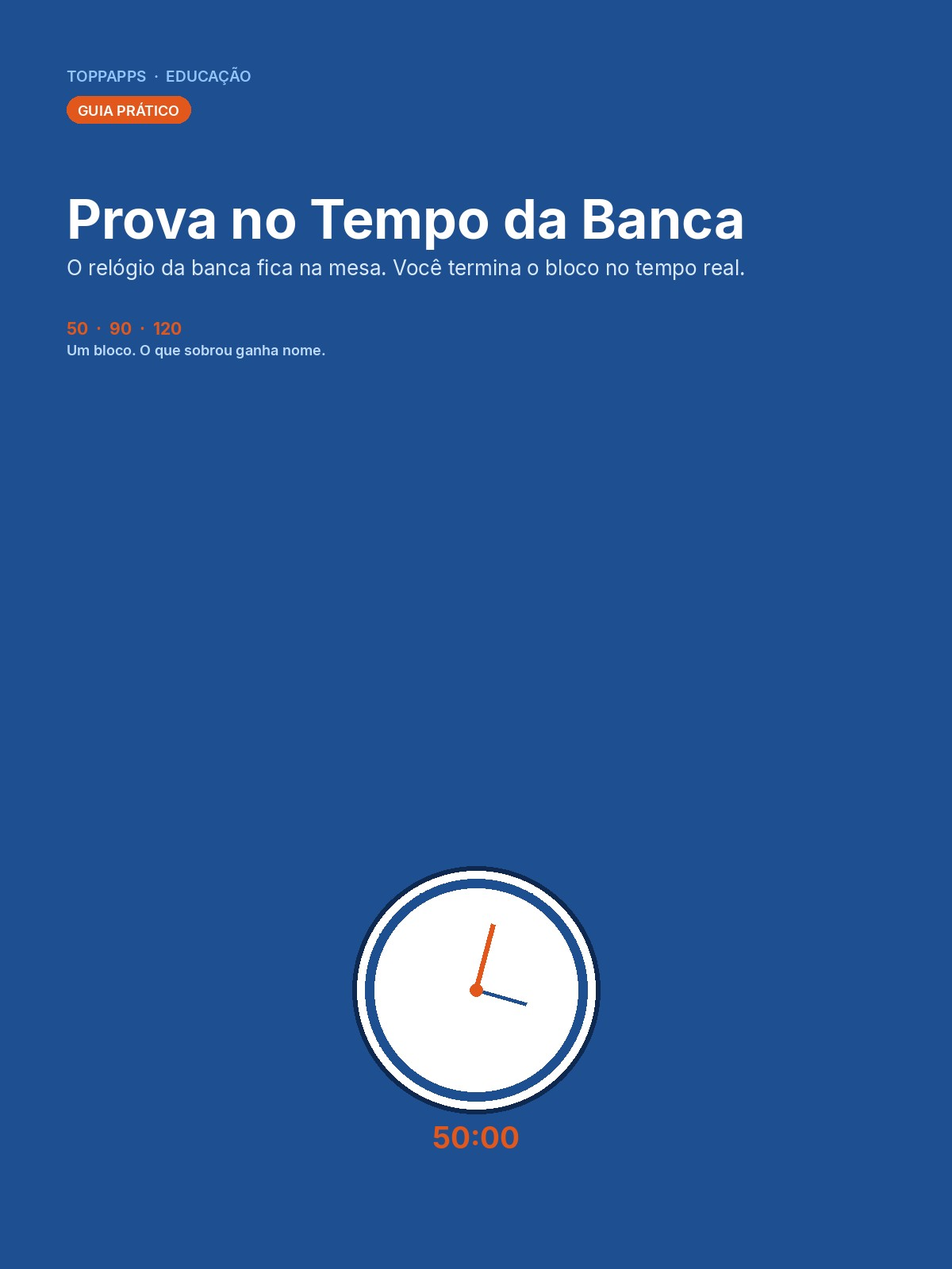
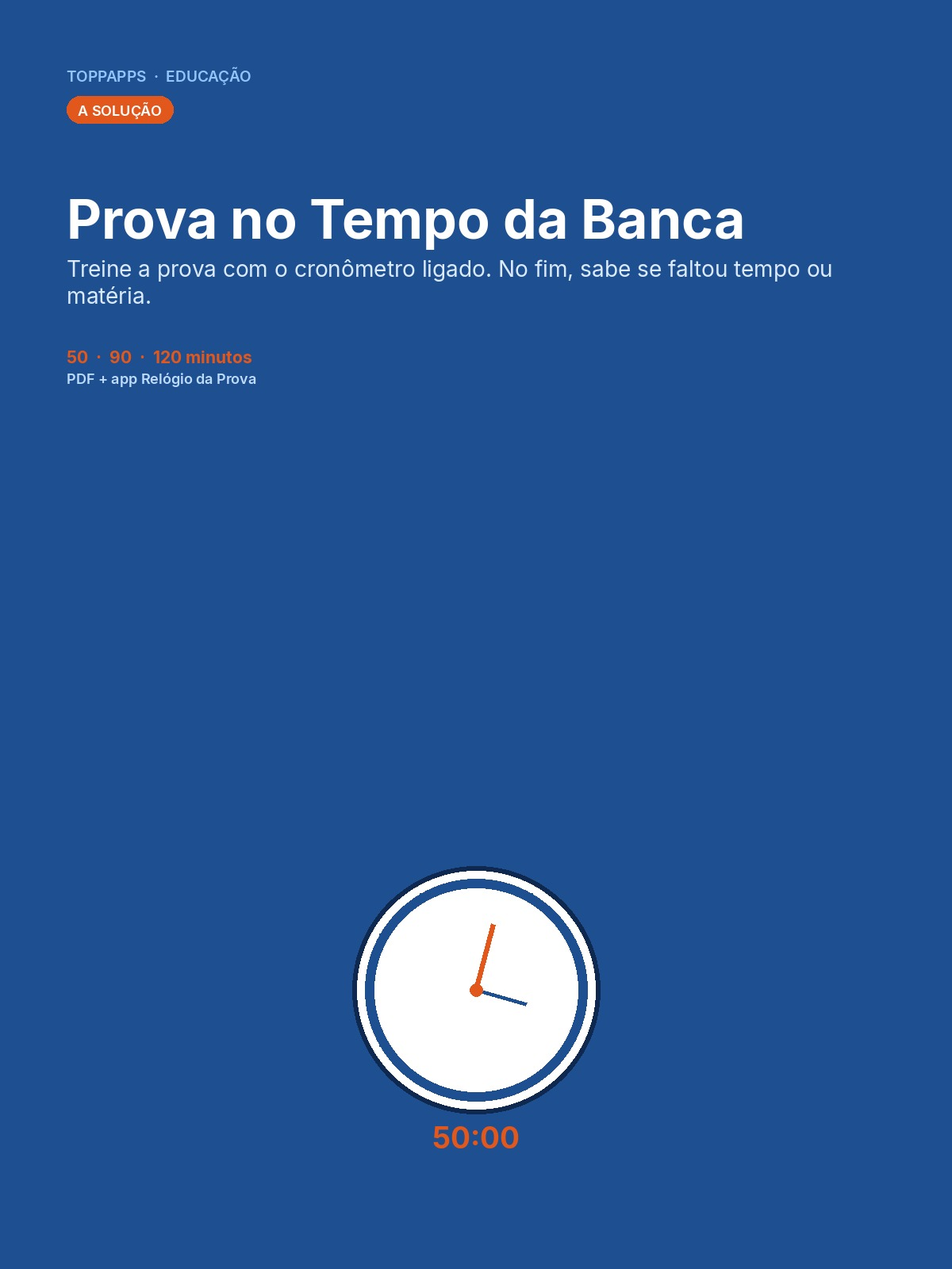
Clarifica a solução de Prova no Tempo da Banca.
Capa e copy passam a dizer, em português simples, que o produto treina a prova com o cronômetro ligado e no fim mostra se faltou tempo ou matéria.

Changed region(s): [[0.0617, 0.1875, 0.8633, 0.3125], [0.0925, 0.0625, 0.2158, 0.0938]]

diff --git a/public/hub-runtime.js b/public/hub-runtime.js
@@ -1,4 +1,4 @@
-    const CATEGORY = {"key":"educacao","short":"EDUCAÇÃO","label":"Estudos, concursos, ENEM e faculdade","host":"edu.toppapps.online","title":"Soluções para estudar com mais direção e menos improviso.","description":"Guias e ferramentas para organizar a semana, começar o estudo e revisar com critérios que cabem na rotina.","accent":"#5b4b8a","accent_soft":"#f2eff4","deep":"#1a1a22","hero_asset":"https://raw.githubusercontent.com/toppaplicativos/educacao-hub/main/public/product/hero-study.webp","hero_alt":"Ilustração editorial de educação com caderno, relógio e cartões de revisão","slides":[{"title":"Um plano possível vence a semana perfeita.","copy":"Escolha uma solução que respeite seu tempo, suas prioridades e os imprevistos.","image":"https://raw.githubusercontent.com/toppaplicativos/educacao-hub/main/public/product/hero-study.webp","alt":"Destaque editorial 1 de EDUCAÇÃO"},{"title":"Começar também é uma habilidade.","copy":"Reduza a fricção do primeiro bloco e transforme intenção em uma sessão real.","image":"https://raw.githubusercontent.com/toppaplicativos/educacao-hub/main/public/product/session-ready.webp","alt":"Destaque editorial 2 de EDUCAÇÃO"},{"title":"Revisar é voltar com critério.","copy":"Organize o retorno ao conteúdo para não depender de releituras aleatórias.","image":"https://raw.githubusercontent.com/toppaplicativos/educacao-hub/main/public/product/pain-desk.webp","alt":"Destaque editorial 3 de EDUCAÇÃO"}],"collections":[["planejamento","Planejar a semana","Para transformar matérias, prazos e tempo em um plano executável."],["inicio","Começar a estudar","Para reduzir a fricção e construir o primeiro bloco de estudo."],["revisao","Revisar melhor","Para voltar ao conteúdo com intervalos e perguntas mais claras."]],"products":[{"slug": "prova-no-tempo-da-banca", "title": "Prova no Tempo da Banca", "subtitle": "Um bloco no relógio da prova", "description": "Em 50 minutos você faz um bloco da prova. No fim, sabe se faltou tempo ou matéria. Guia em PDF + app Relógio da Prova.", "objective": "Treinar o tempo", "theme": "Simulado no relógio", "audience": "Quem trava na prova mesmo sabendo a matéria", "format": "Guia digital + app", "delivery": "Entrega digital", "price": 27.9, "status": "live", "priority": 0, "collection": "inicio", "tags": ["prova", "tempo", "simulado", "concurso", "ENEM"], "featured": true, "cover": "https://cdn.jsdelivr.net/gh/toppaplicativos/educacao-hub@e95487171be0f0a7d17ed45a0671f8e53c5980e9/public/product/prova/cover.webp", "checkout": "https://pay.kiwify.com.br/ziYRYmK"},{"slug": "aprenda-fazendo-questoes", "title": "Aprenda Fazendo Questões", "subtitle": "Uma questão. O motivo. Outra do mesmo tipo.", "description": "Em 8 minutos você marca por que errou. A próxima questão é desse tipo. Guia em PDF + app Próxima Questão.", "objective": "Fazer questões", "theme": "Questões com método", "audience": "Quem faz muita questão e continua errando a mesma coisa", "format": "Guia digital + app", "delivery": "Entrega digital", "price": 27.9, "status": "live", "priority": 0, "collection": "inicio", "tags": ["questões", "erro", "gabarito", "concurso", "ENEM"], "featured": true, "cover": "https://cdn.jsdelivr.net/gh/toppaplicativos/educacao-hub@c4d8f7599aeec363a22cb71acd987a7e0b396e07/public/product/questoes/cover.webp", "checkout": "https://pay.kiwify.com.br/VZpz5C9"},{"slug":"nunca-mais-esqueca-tudo","title":"Nunca Mais Esqueça Tudo","subtitle":"Fila do que vence hoje","description":"Em 5 minutos, só o que vence hoje está na mesa. O semestre fica fora. Guia em PDF + app Fila de Hoje.","objective":"Revisar melhor","theme":"Fila de revisão","audience":"Quem acumula matéria e não sabe o que revisar","format":"Guia digital + app","delivery":"Entrega digital","price":27.9,"status":"live","priority":0,"collection":"revisao","tags":["esquecer","fila","revisão","cartão","manhã"],"featured":true,"cover":"https://cdn.jsdelivr.net/gh/toppaplicativos/educacao-hub@2862ff7b082e60218f94b15dde795712053537fd/public/product/esqueca/cover.webp","checkout":"https://pay.kiwify.com.br/csMSLPJ"},{"slug":"estude-uma-vez-revise-certo","title":"Estude Uma Vez, Revise Certo","subtitle":"Revisão que cobra, não que relê","description":"Feche o caderno — e a matéria volta sem reler o capítulo. Guia em PDF + app Próxima Revisão.","objective":"Revisar melhor","theme":"Revisão espaçada","audience":"Quem estuda e esquece na semana seguinte","format":"Guia digital + app","delivery":"Entrega digital","price":37.9,"status":"live","priority":0,"collection":"revisao","tags":["revisão","esquecer","pergunta","intervalo","1-3-7"],"featured":true,"cover":"https://cdn.jsdelivr.net/gh/toppaplicativos/educacao-hub@04de7fcc0793cd91af062c0a13ae811ccd818973/public/product/revisao/cover.webp","checkout":"https://pay.kiwify.com.br/jY4maqm"},{"slug":"cronograma-que-funciona","title":"Cronograma que Funciona","subtitle":"Plano de estudos possível","description":"Monte uma semana de estudos que respeita sua rotina, suas prioridades e os imprevistos do caminho.","objective":"Planejamento","theme":"Organização e produtividade","audience":"Estudantes, concurseiros e universitários","format":"Guia digital + aplicação","delivery":"Entrega digital","price":27.9,"status":"live","priority":1,"collection":"planejamento","tags":["cronograma","semana","estudos","planejamento","rotina"],"featured":true,"cover":"https://raw.githubusercontent.com/toppaplicativos/educacao-hub/main/public/assets/covers/cronograma-que-funciona.webp","checkout":"https://pay.kiwify.com.br/aMALUaX"},{"slug":"senta-e-estuda","title":"Senta e Estuda","subtitle":"Primeira sessão em 10 minutos","description":"Em 10 minutos você senta e começa — sem esperar vontade. Guia em PDF + app Primeira Sessão.","objective":"Começar a estudar","theme":"Início e foco","audience":"Quem adia o começo do estudo","format":"Guia digital + app","delivery":"Entrega digital","price":27.9,"status":"live","priority":2,"collection":"inicio","tags":["começar","foco","primeira sessão","estudar"],"featured":true,"cover":"https://raw.githubusercontent.com/toppaplicativos/educacao-hub/main/public/product/cover-navy.webp","checkout":"https://pay.kiwify.com.br/EDp7t2z"}],"faqs":[["A solução substitui uma escola ou professor?","Não. São materiais de organização e aplicação para apoiar sua rotina de estudos."],["O cronograma funciona para qualquer pessoa?","O material oferece critérios para adaptar a semana. A execução depende do tempo, objetivo e contexto de cada pessoa."],["Como uma oferta planejada aparece?","Ela fica no catálogo com estado de preparação e sem preço ou CTA de compra até que publicação, suporte e QA estejam confirmados."]]};
+    const CATEGORY = {"key":"educacao","short":"EDUCAÇÃO","label":"Estudos, concursos, ENEM e faculdade","host":"edu.toppapps.online","title":"Soluções para estudar com mais direção e menos improviso.","description":"Guias e ferramentas para organizar a semana, começar o estudo e revisar com critérios que cabem na rotina.","accent":"#5b4b8a","accent_soft":"#f2eff4","deep":"#1a1a22","hero_asset":"https://raw.githubusercontent.com/toppaplicativos/educacao-hub/main/public/product/hero-study.webp","hero_alt":"Ilustração editorial de educação com caderno, relógio e cartões de revisão","slides":[{"title":"Um plano possível vence a semana perfeita.","copy":"Escolha uma solução que respeite seu tempo, suas prioridades e os imprevistos.","image":"https://raw.githubusercontent.com/toppaplicativos/educacao-hub/main/public/product/hero-study.webp","alt":"Destaque editorial 1 de EDUCAÇÃO"},{"title":"Começar também é uma habilidade.","copy":"Reduza a fricção do primeiro bloco e transforme intenção em uma sessão real.","image":"https://raw.githubusercontent.com/toppaplicativos/educacao-hub/main/public/product/session-ready.webp","alt":"Destaque editorial 2 de EDUCAÇÃO"},{"title":"Revisar é voltar com critério.","copy":"Organize o retorno ao conteúdo para não depender de releituras aleatórias.","image":"https://raw.githubusercontent.com/toppaplicativos/educacao-hub/main/public/product/pain-desk.webp","alt":"Destaque editorial 3 de EDUCAÇÃO"}],"collections":[["planejamento","Planejar a semana","Para transformar matérias, prazos e tempo em um plano executável."],["inicio","Começar a estudar","Para reduzir a fricção e construir o primeiro bloco de estudo."],["revisao","Revisar melhor","Para voltar ao conteúdo com intervalos e perguntas mais claras."]],"products":[{"slug": "prova-no-tempo-da-banca", "title": "Prova no Tempo da Banca", "subtitle": "Treine a prova com o cronômetro ligado", "description": "A solução: treinar com o cronômetro da prova ligado. No fim, sabe se faltou tempo ou matéria. Guia em PDF + app Relógio da Prova.", "objective": "Treinar o tempo", "theme": "Simulado no relógio", "audience": "Quem trava na prova mesmo sabendo a matéria", "format": "Guia digital + app", "delivery": "Entrega digital", "price": 27.9, "status": "live", "priority": 0, "collection": "inicio", "tags": ["prova", "tempo", "simulado", "concurso", "ENEM"], "featured": true, "cover": "https://cdn.jsdelivr.net/gh/toppaplicativos/educacao-hub@e95487171be0f0a7d17ed45a0671f8e53c5980e9/public/product/prova/cover.webp", "checkout": "https://pay.kiwify.com.br/ziYRYmK"},{"slug": "aprenda-fazendo-questoes", "title": "Aprenda Fazendo Questões", "subtitle": "Uma questão. O motivo. Outra do mesmo tipo.", "description": "Em 8 minutos você marca por que errou. A próxima questão é desse tipo. Guia em PDF + app Próxima Questão.", "objective": "Fazer questões", "theme": "Questões com método", "audience": "Quem faz muita questão e continua errando a mesma coisa", "format": "Guia digital + app", "delivery": "Entrega digital", "price": 27.9, "status": "live", "priority": 0, "collection": "inicio", "tags": ["questões", "erro", "gabarito", "concurso", "ENEM"], "featured": true, "cover": "https://cdn.jsdelivr.net/gh/toppaplicativos/educacao-hub@c4d8f7599aeec363a22cb71acd987a7e0b396e07/public/product/questoes/cover.webp", "checkout": "https://pay.kiwify.com.br/VZpz5C9"},{"slug":"nunca-mais-esqueca-tudo","title":"Nunca Mais Esqueça Tudo","subtitle":"Fila do que vence hoje","description":"Em 5 minutos, só o que vence hoje está na mesa. O semestre fica fora. Guia em PDF + app Fila de Hoje.","objective":"Revisar melhor","theme":"Fila de revisão","audience":"Quem acumula matéria e não sabe o que revisar","format":"Guia digital + app","delivery":"Entrega digital","price":27.9,"status":"live","priority":0,"collection":"revisao","tags":["esquecer","fila","revisão","cartão","manhã"],"featured":true,"cover":"https://cdn.jsdelivr.net/gh/toppaplicativos/educacao-hub@2862ff7b082e60218f94b15dde795712053537fd/public/product/esqueca/cover.webp","checkout":"https://pay.kiwify.com.br/csMSLPJ"},{"slug":"estude-uma-vez-revise-certo","title":"Estude Uma Vez, Revise Certo","subtitle":"Revisão que cobra, não que relê","description":"Feche o caderno — e a matéria volta sem reler o capítulo. Guia em PDF + app Próxima Revisão.","objective":"Revisar melhor","theme":"Revisão espaçada","audience":"Quem estuda e esquece na semana seguinte","format":"Guia digital + app","delivery":"Entrega digital","price":37.9,"status":"live","priority":0,"collection":"revisao","tags":["revisão","esquecer","pergunta","intervalo","1-3-7"],"featured":true,"cover":"https://cdn.jsdelivr.net/gh/toppaplicativos/educacao-hub@04de7fcc0793cd91af062c0a13ae811ccd818973/public/product/revisao/cover.webp","checkout":"https://pay.kiwify.com.br/jY4maqm"},{"slug":"cronograma-que-funciona","title":"Cronograma que Funciona","subtitle":"Plano de estudos possível","description":"Monte uma semana de estudos que respeita sua rotina, suas prioridades e os imprevistos do caminho.","objective":"Planejamento","theme":"Organização e produtividade","audience":"Estudantes, concurseiros e universitários","format":"Guia digital + aplicação","delivery":"Entrega digital","price":27.9,"status":"live","priority":1,"collection":"planejamento","tags":["cronograma","semana","estudos","planejamento","rotina"],"featured":true,"cover":"https://raw.githubusercontent.com/toppaplicativos/educacao-hub/main/public/assets/covers/cronograma-que-funciona.webp","checkout":"https://pay.kiwify.com.br/aMALUaX"},{"slug":"senta-e-estuda","title":"Senta e Estuda","subtitle":"Primeira sessão em 10 minutos","description":"Em 10 minutos você senta e começa — sem esperar vontade. Guia em PDF + app Primeira Sessão.","objective":"Começar a estudar","theme":"Início e foco","audience":"Quem adia o começo do estudo","format":"Guia digital + app","delivery":"Entrega digital","price":27.9,"status":"live","priority":2,"collection":"inicio","tags":["começar","foco","primeira sessão","estudar"],"featured":true,"cover":"https://raw.githubusercontent.com/toppaplicativos/educacao-hub/main/public/product/cover-navy.webp","checkout":"https://pay.kiwify.com.br/EDp7t2z"}],"faqs":[["A solução substitui uma escola ou professor?","Não. São materiais de organização e aplicação para apoiar sua rotina de estudos."],["O cronograma funciona para qualquer pessoa?","O material oferece critérios para adaptar a semana. A execução depende do tempo, objetivo e contexto de cada pessoa."],["Como uma oferta planejada aparece?","Ela fica no catálogo com estado de preparação e sem preço ou CTA de compra até que publicação, suporte e QA estejam confirmados."]]};
     const SUPPORT_EMAIL = 'suporte@toppapps.online';
     const QUESTOES_ASSETS = 'https://cdn.jsdelivr.net/gh/toppaplicativos/educacao-hub@c4d8f7599aeec363a22cb71acd987a7e0b396e07/public/product/questoes';
     const PROVA_ASSETS = 'https://cdn.jsdelivr.net/gh/toppaplicativos/educacao-hub@e95487171be0f0a7d17ed45a0671f8e53c5980e9/public/product/prova';
@@ -1135,11 +1135,11 @@
         <section class="hero"><div class="wrap senta-grid senta-hero">
           <div class="hero-copy">
             <p class="eyebrow">VOCÊ ESTUDA SEM RELÓGIO. A PROVA COBRA O TEMPO.</p>
-            <h1>Em 50 minutos você faz um bloco da prova. No fim, sabe se faltou tempo ou matéria.</h1>
+            <h1>Em 50 minutos você treina a prova com o cronômetro ligado.</h1>
             <div class="hero-actions">${cta('Quero treinar no tempo da prova')}<a class="button secondary" href="${pay}" rel="noopener">Ver o app em 3 funções</a></div>
             <p class="hero-note">Acesso na hora. 7 dias para desistir.</p>
-            <p class="hero-lede">Você estuda 3 horas. Na prova o fiscal avisa 15 minutos e você ainda está na questão 32. A matéria você sabia. O relógio não estava na mesa. Pare. Ponha 50, 90 ou 120 minutos. Faça um bloco sem pausar. No fim, marque: acabou o tempo, não sabia, ou deu tempo.</p>
-            <div class="senta-proof"><span>Um bloco no relógio</span><span>R$ 27,90</span><span>PDF 14 páginas + app</span><span>Garantia 7 dias</span></div>
+            <p class="senta-effect" style="margin:1rem 0 .6rem">A solução: um app liga o cronômetro da prova (50, 90 ou 120 minutos). Você responde as questões sem pausar. No fim anota se faltou tempo ou se não sabia a matéria. O guia em PDF ensina o método.</p><p class="hero-lede">Você estuda horas em casa e pausa quando quer. No dia da prova o fiscal corta o tempo e você ainda está no meio das questões. A matéria você sabia. Você nunca treinou com o cronômetro da prova ligado.</p>
+            <div class="senta-proof"><span>Treino no tempo da prova</span><span>R$ 27,90</span><span>PDF 14 páginas + app</span><span>Garantia 7 dias</span></div>
             <blockquote class="senta-quote" style="margin-top:1.2rem;overflow:auto">
               <img src="${A}/faces/renata.jpg" alt="Renata M." width="88" height="88">
               <p>“Eu fazia simulado de 4 horas e pausava para olhar o caderno. Na prova o tempo acabava. Coloquei 50 minutos. Um bloco. Vi que eu demorava nas primeiras 10.”</p>
@@ -1164,41 +1164,41 @@
         </div></section>
 
         <section class="section" id="virada"><div class="wrap">
-          <p class="eyebrow">A VIRADA</p>
-          <h2>Um bloco no relógio da prova ensina mais do que 3 horas sem hora.</h2>
-          <p class="copy">Não é falta de matéria. É treinar sem o tempo que a prova cobra. Ponha 50, 90 ou 120 minutos. Faça o bloco. Marque o que aconteceu.</p>
-          <p class="senta-effect">Relógio na mesa. Um bloco. No fim você marca: acabou o tempo, não sabia, ou deu tempo.</p>
+          <p class="eyebrow">A SOLUÇÃO</p>
+          <h2>A solução é treinar com o cronômetro da prova ligado.</h2>
+          <p class="copy">Não é falta de matéria. É treinar sem o tempo que a prova cobra. Você escolhe 50, 90 ou 120 minutos, responde as questões sem pausar e anota o que aconteceu.</p>
+          <p class="senta-effect">Cronômetro na frente. Questões sem pausa. No fim você anota: faltou tempo, não sabia, ou deu tempo.</p>
           <div class="senta-steps" style="margin-top:1.4rem">
-            <article class="senta-step"><h3>Ponha o tempo da prova</h3><p>50, 90 ou 120 minutos. O mesmo da sua banca. Não um treino de 12 minutos.</p></article>
-            <article class="senta-step"><h3>Faça um bloco</h3><p>Sem pausa. Sem caderno. Sem olhar o celular.</p></article>
-            <article class="senta-step"><h3>Marque o que aconteceu</h3><p>Acabou o tempo. Não sabia. Deu tempo. Aí o próximo bloco muda.</p></article>
+            <article class="senta-step"><h3>Ligue o cronômetro da prova</h3><p>50, 90 ou 120 minutos. O mesmo tempo da sua banca. Não um treino de 12 minutos.</p></article>
+            <article class="senta-step"><h3>Responda as questões sem pausar</h3><p>Sem caderno. Sem celular. O fiscal não espera você voltar.</p></article>
+            <article class="senta-step"><h3>Anote o que aconteceu</h3><p>Faltou tempo. Não sabia a matéria. Deu tempo. Aí o próximo treino muda.</p></article>
           </div>
         </div></section>
 
         <section class="section"><div class="wrap">
           <p class="eyebrow">MÉTODO</p>
-          <h2>Três passos. Um bloco. O tempo da prova fica visível.</h2>
-          <p class="copy">O PDF mostra o método. O app Relógio da Prova aplica. Você escolhe a duração. Faz o bloco. Marca o que aconteceu.</p>
+          <h2>Três passos. O cronômetro da prova fica na sua frente.</h2>
+          <p class="copy">O PDF ensina o método. O app Relógio da Prova aplica. Você escolhe a duração. Responde as questões. Anota o que aconteceu.</p>
         </div></section>
 
         <section class="section light" id="app"><div class="wrap">
           <p class="eyebrow">O APP · RELÓGIO DA PROVA</p>
-          <h2>O relógio. O bloco. A marca no fim.</h2>
+          <h2>O cronômetro. As questões. A anotação no fim.</h2>
           <div class="senta-app" style="margin-top:2rem">
-            <div class="senta-copy"><p class="eyebrow">NO APP · PASSO 1</p><h3>O relógio da prova entra na mesa.</h3><p>Você abre o app. Escolhe 50, 90 ou 120. Sem fingir que tem 4 horas.</p><p class="senta-effect">A sessão vira o tempo da prova.</p>
-              <div class="senta-box"><p><b>Situação.</b> Sábado. Você ia sentar até cansar.</p><p><b>Faça.</b> Abra o app. Escolha a duração da banca.</p><p><b>Resultado.</b> O relógio está na mesa. O bloco ainda não começou.</p></div>
+            <div class="senta-copy"><p class="eyebrow">NO APP · PASSO 1</p><h3>Escolha o tempo da sua prova: 50, 90 ou 120 minutos.</h3><p>Você abre o app e liga o cronômetro no mesmo tempo da banca. Sem fingir que tem 4 horas.</p><p class="senta-effect">O treino vira o tempo da prova.</p>
+              <div class="senta-box"><p><b>Situação.</b> Sábado. Você ia sentar até cansar.</p><p><b>Faça.</b> Abra o app. Escolha a duração da sua banca.</p><p><b>Resultado.</b> O cronômetro está na frente. As questões ainda não começaram.</p></div>
               <div class="hero-actions">${cta('Quero o app agora')}</div></div>
             <div class="senta-mock"><img src="${A}/miniapp/montar.webp" alt="Celular com o timer de 50 minutos para começar o bloco"></div>
           </div>
           <div class="senta-app reverse" style="margin-top:2.4rem">
-            <div class="senta-copy"><p class="eyebrow">NO APP · PASSO 2</p><h3>O bloco corre. Sem pausa.</h3><p>O app conta. Você faz. Sem caderno. Sem celular de recado.</p><p class="senta-effect">O tempo anda. A questão também.</p>
-              <div class="senta-box"><p><b>Situação.</b> Você quer pausar para olhar a fórmula.</p><p><b>Faça.</b> Fique no bloco. Marque feita ou pulei.</p><p><b>Resultado.</b> Um treino que parece prova. Sem pausa para olhar o caderno.</p></div>
+            <div class="senta-copy"><p class="eyebrow">NO APP · PASSO 2</p><h3>Responda as questões com o cronômetro rodando. Sem pausar.</h3><p>O app conta. Você responde. Sem caderno. Sem celular de recado.</p><p class="senta-effect">O tempo anda. A questão também.</p>
+              <div class="senta-box"><p><b>Situação.</b> Você quer pausar para olhar a fórmula.</p><p><b>Faça.</b> Fique no treino. Marque feita ou pulei.</p><p><b>Resultado.</b> Um treino que parece prova. Sem pausa para olhar o caderno.</p></div>
               <div class="hero-actions">${cta('Quero o app agora')}</div></div>
             <div class="senta-mock"><img src="${A}/miniapp/sessao.webp" alt="Celular com o bloco em andamento e o relógio caindo"></div>
           </div>
           <div class="senta-app" style="margin-top:2.4rem">
-            <div class="senta-copy"><p class="eyebrow">NO APP · PASSO 3</p><h3>No fim, você marca o que aconteceu.</h3><p>Acabou o tempo. Não sabia. Deu tempo. Sem marcar, o próximo bloco não muda.</p><p class="senta-effect">Três marcas. Você escolhe o que ficou.</p>
-              <div class="senta-box"><p><b>Situação.</b> O relógio zerou. O reflexo é fechar e esquecer.</p><p><b>Faça.</b> Marque o que aconteceu. Uma linha.</p><p><b>Resultado.</b> Você sabe se faltou ritmo ou conteúdo.</p></div>
+            <div class="senta-copy"><p class="eyebrow">NO APP · PASSO 3</p><h3>No fim, anote se faltou tempo ou se você não sabia a matéria.</h3><p>Faltou tempo. Não sabia. Deu tempo. Sem anotar, o próximo treino não muda.</p><p class="senta-effect">Três opções. Você escolhe o que aconteceu.</p>
+              <div class="senta-box"><p><b>Situação.</b> O cronômetro zerou. O reflexo é fechar e esquecer.</p><p><b>Faça.</b> Anote o que aconteceu. Uma linha.</p><p><b>Resultado.</b> Você sabe se faltou ritmo ou conteúdo.</p></div>
               <div class="hero-actions">${cta('Quero o app agora')}</div></div>
             <div class="senta-mock"><img src="${A}/miniapp/retomada.webp" alt="Celular com três marcas para o que aconteceu no bloco"></div>
           </div>
@@ -1216,22 +1216,22 @@
         </div></section>
         <section class="section"><div class="wrap">
           <p class="eyebrow">O QUE MUDA NA PRÁTICA</p>
-          <h2>Você sai sabendo onde o tempo acabou. Não só a matéria que faltou.</h2>
+          <h2>Você recebe o guia em PDF e o app que liga o cronômetro da prova.</h2>
           <div class="senta-bens" style="margin-top:1.3rem">
-            <article class="senta-ben"><h3>O tempo da prova fica na mesa</h3><p class="copy">Você escolhe 50, 90 ou 120. O app conta. Sem pausa.</p></article>
-            <article class="senta-ben"><h3>No fim você sabe o que faltou</h3><p class="copy">Acabou o tempo, não sabia ou deu tempo. Sem marcar, o próximo sábado é igual.</p></article>
+            <article class="senta-ben"><h3>O cronômetro da prova fica na sua frente</h3><p class="copy">Você escolhe 50, 90 ou 120. O app conta. Sem pausa.</p></article>
+            <article class="senta-ben"><h3>No fim você sabe o que faltou</h3><p class="copy">Faltou tempo, não sabia ou deu tempo. Sem anotar, o próximo sábado é igual.</p></article>
             <article class="senta-ben"><h3>Um bloco cabe na sessão</h3><p class="copy">Você não precisa de 4 horas. Precisa do tempo da banca, uma vez.</p></article>
             <article class="senta-ben"><h3>O dia para no 1</h3><p class="copy">Um bloco. Depois encerra. Dois blocos viram cansaço.</p></article>
           </div>
         </div></section>
 
         <section class="section" id="antes"><div class="wrap senta-grid">
-          <article class="senta-ben" style="background:#0F172A;color:#fff;padding:0;overflow:hidden"><img src="${A}/pain.webp" alt="Mesa cheia de simulados sem relógio" style="width:100%;height:220px;object-fit:cover;opacity:.88"><div style="padding:1.15rem 1.2rem"><p class="eyebrow" style="color:#E2571C">COMO ESTÁ HOJE</p><h3>Estuda até cansar. Pausa o simulado para olhar o caderno. Não sabe se faltou tempo ou conteúdo.</h3></div></article>
-          <article class="senta-ben" style="padding:0;overflow:hidden"><img src="${A}/session.webp" alt="Timer de 50 minutos e três notas: acabou o tempo, não sabia, deu tempo" style="width:100%;height:220px;object-fit:cover"><div style="padding:1.15rem 1.2rem"><p class="eyebrow">COMO FICA</p><h3>O relógio da prova fica na mesa. Um bloco sem pausa. No fim você marca se faltou tempo ou matéria.</h3></div></article>
+          <article class="senta-ben" style="background:#0F172A;color:#fff;padding:0;overflow:hidden"><img src="${A}/pain.webp" alt="Mesa cheia de simulados sem relógio" style="width:100%;height:220px;object-fit:cover;opacity:.88"><div style="padding:1.15rem 1.2rem"><p class="eyebrow" style="color:#E2571C">COMO ESTÁ HOJE</p><h3>Estuda até cansar. Pausa o simulado para olhar o caderno. Não sabe se faltou tempo ou matéria.</h3></div></article>
+          <article class="senta-ben" style="padding:0;overflow:hidden"><img src="${A}/session.webp" alt="Timer de 50 minutos e três notas: acabou o tempo, não sabia, deu tempo" style="width:100%;height:220px;object-fit:cover"><div style="padding:1.15rem 1.2rem"><p class="eyebrow">COMO FICA</p><h3>O cronômetro da prova fica na frente. Questões sem pausa. No fim você anota se faltou tempo ou matéria.</h3></div></article>
         </div></section>
         <section class="section"><div class="wrap">
           <p class="eyebrow">PROVA SOCIAL</p>
-          <h2>O que aconteceu com quem pôs o relógio na mesa</h2>
+          <h2>O que aconteceu com quem treinou com o cronômetro ligado</h2>
           <p class="copy">Três relatos. Sem promessa de aprovação. Sem nota. Sem ranking.</p>
           <div class="senta-faces" style="margin-top:1.4rem">
             <blockquote class="senta-quote"><img src="${A}/faces/renata.jpg" alt="Renata M."><p>“Eu fazia simulado de 4 horas e pausava para olhar o caderno. Na prova o tempo acabava. Coloquei 50 minutos. Um bloco. Vi que eu demorava nas primeiras 10.”</p><footer>Renata M. · Concurso · Belém</footer></blockquote>
@@ -1247,12 +1247,12 @@
         <section class="senta-offer" id="oferta"><div class="wrap senta-grid">
           <div>
             <p class="eyebrow" style="color:#E2571C">OFERTA IMPERDÍVEL</p>
-            <h2>PDF + app. De R$ 97 por R$ 27,90. 7 dias para desistir.</h2>
-            <p class="copy">Você abre o app agora. Escolhe 50, 90 ou 120 minutos. Faz um bloco. Marca o que aconteceu. O guia em PDF fica no e-mail. Se não servir, pede o dinheiro de volta em 7 dias.</p>
+            <h2>Guia em PDF + app Relógio da Prova. De R$ 97 por R$ 27,90. 7 dias para desistir.</h2>
+            <p class="copy">Você abre o app agora. Escolhe 50, 90 ou 120 minutos. Responde as questões com o cronômetro ligado. No fim anota o que aconteceu. O guia em PDF fica no e-mail. Se não servir, pede o dinheiro de volta em 7 dias.</p>
             <div class="senta-stack">
               <div><span>Guia Prova no Tempo da Banca</span><span>PDF · 14 páginas</span></div>
               <div><span>App Relógio da Prova</span><span>No celular e no computador</span></div>
-              <div><span>3 marcas no fim</span><span>Acabou o tempo, não sabia, deu tempo</span></div>
+              <div><span>3 anotações no fim</span><span>Faltou tempo, não sabia, deu tempo</span></div>
             </div>
             <p class="senta-price"><span class="senta-old">R$ 97</span> R$ 27,90</p>
             <p class="offer-visit">Por tempo limitado · <span class="offer-bar-clock" data-clock>20:00</span></p>
@@ -1274,7 +1274,7 @@
           <p class="eyebrow">FAQ</p>
           <h2>O que você recebe, o app incluso e a garantia de 7 dias.</h2>
           <div class="faq-list" style="margin-top:1.2rem">
-            <details open><summary>O que eu recebo?</summary><p>O guia em PDF e o app Relógio da Prova. No PDF: por que estudar sem relógio falha, o bloco da banca, as 3 marcas do fim e o teto de um bloco.</p></details>
+            <details open><summary>O que eu recebo?</summary><p>O guia em PDF e o app Relógio da Prova. O app liga o cronômetro da prova (50, 90 ou 120 minutos). Você responde as questões e, no fim, anota se faltou tempo ou matéria.</p></details>
             <details><summary>O app já está incluso?</summary><p>Sim. Abre no celular e no computador. Sem loja. Sem instalar. Você escolhe a duração, faz o bloco e marca o que aconteceu.</p></details>
             <details><summary>Qual é a garantia?</summary><p>Você tem 7 dias para desistir, com base no art. 49 do CDC. Peça o reembolso pelo e-mail de suporte.</p></details>
             <details><summary>Isso promete aprovação?</summary><p>Não. É material de estudo. Não promete aprovação, nota, classificação nem prova oficial da banca.</p></details>
@@ -1289,7 +1289,7 @@
       return appShell({ title:'Relógio da Prova | Prova no Tempo da Banca', kicker:'RELÓGIO DA PROVA', h1:'Relógio da Prova', lede:'Escolha 50, 90 ou 120 minutos. Faça um bloco. Marque o que aconteceu. Um bloco hoje.', id:'prova', pdfHref: 'https://cdn.jsdelivr.net/gh/toppaplicativos/educacao-hub@e95487171be0f0a7d17ed45a0671f8e53c5980e9/public/guides/prova-no-tempo-da-banca-ebook-v1.0.pdf' });
     }
     function provaThanksPage() {
-      return deliveryThanks({ title:'Acesso | Prova no Tempo da Banca', h1:'Abra o app. Baixe o PDF. Ponha o relógio na mesa.', lead:'Você não precisa esperar e-mail para usar. O app Relógio da Prova abre agora. O guia de 14 páginas baixa neste botão.', step3:'Escolha 50, 90 ou 120 minutos. Faça um bloco. Marque o que aconteceu. Um bloco hoje.', appHref:'/app/relogio-da-prova', appLabel:'Abrir o app Relógio da Prova', pdfHref: 'https://cdn.jsdelivr.net/gh/toppaplicativos/educacao-hub@e95487171be0f0a7d17ed45a0671f8e53c5980e9/public/guides/prova-no-tempo-da-banca-ebook-v1.0.pdf', pdfLabel:'Baixar o PDF (14 páginas)' });
+      return deliveryThanks({ title:'Acesso | Prova no Tempo da Banca', h1:'Abra o app. Baixe o PDF. Ligue o cronômetro da prova.', lead:'Você não precisa esperar e-mail para usar. O app Relógio da Prova abre agora. O guia de 14 páginas baixa neste botão.', step3:'Escolha 50, 90 ou 120 minutos. Responda as questões. Anote se faltou tempo ou matéria. Um treino hoje.', appHref:'/app/relogio-da-prova', appLabel:'Abrir o app Relógio da Prova', pdfHref: 'https://cdn.jsdelivr.net/gh/toppaplicativos/educacao-hub@e95487171be0f0a7d17ed45a0671f8e53c5980e9/public/guides/prova-no-tempo-da-banca-ebook-v1.0.pdf', pdfLabel:'Baixar o PDF (14 páginas)' });
     }
 
     function productPage(product) {
